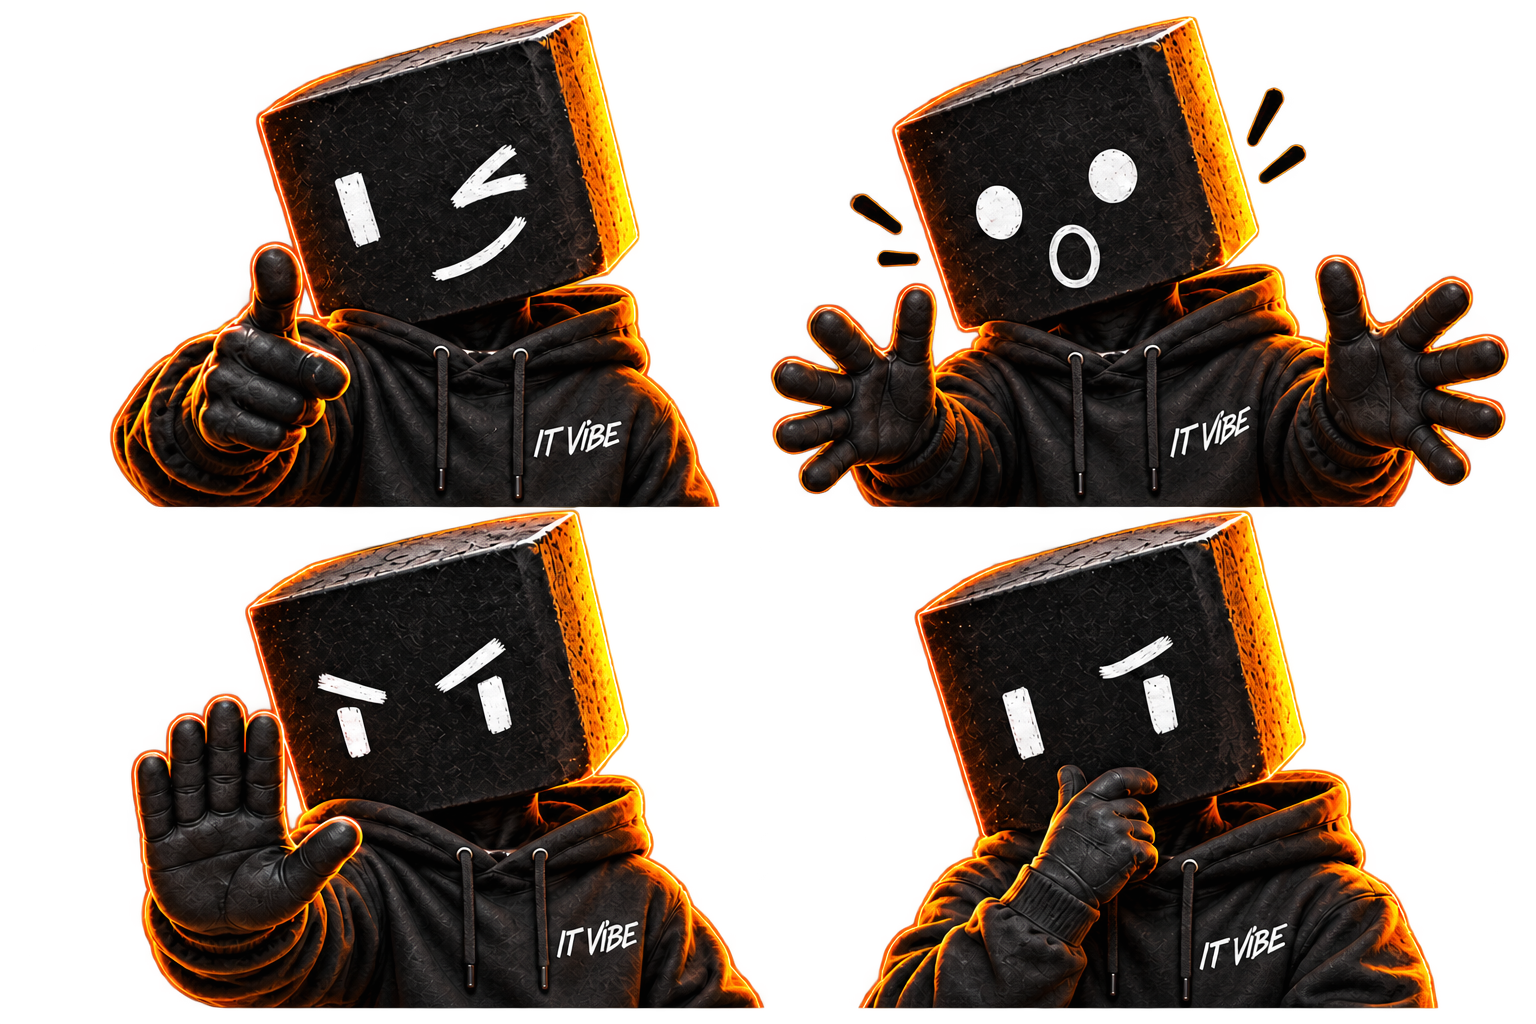
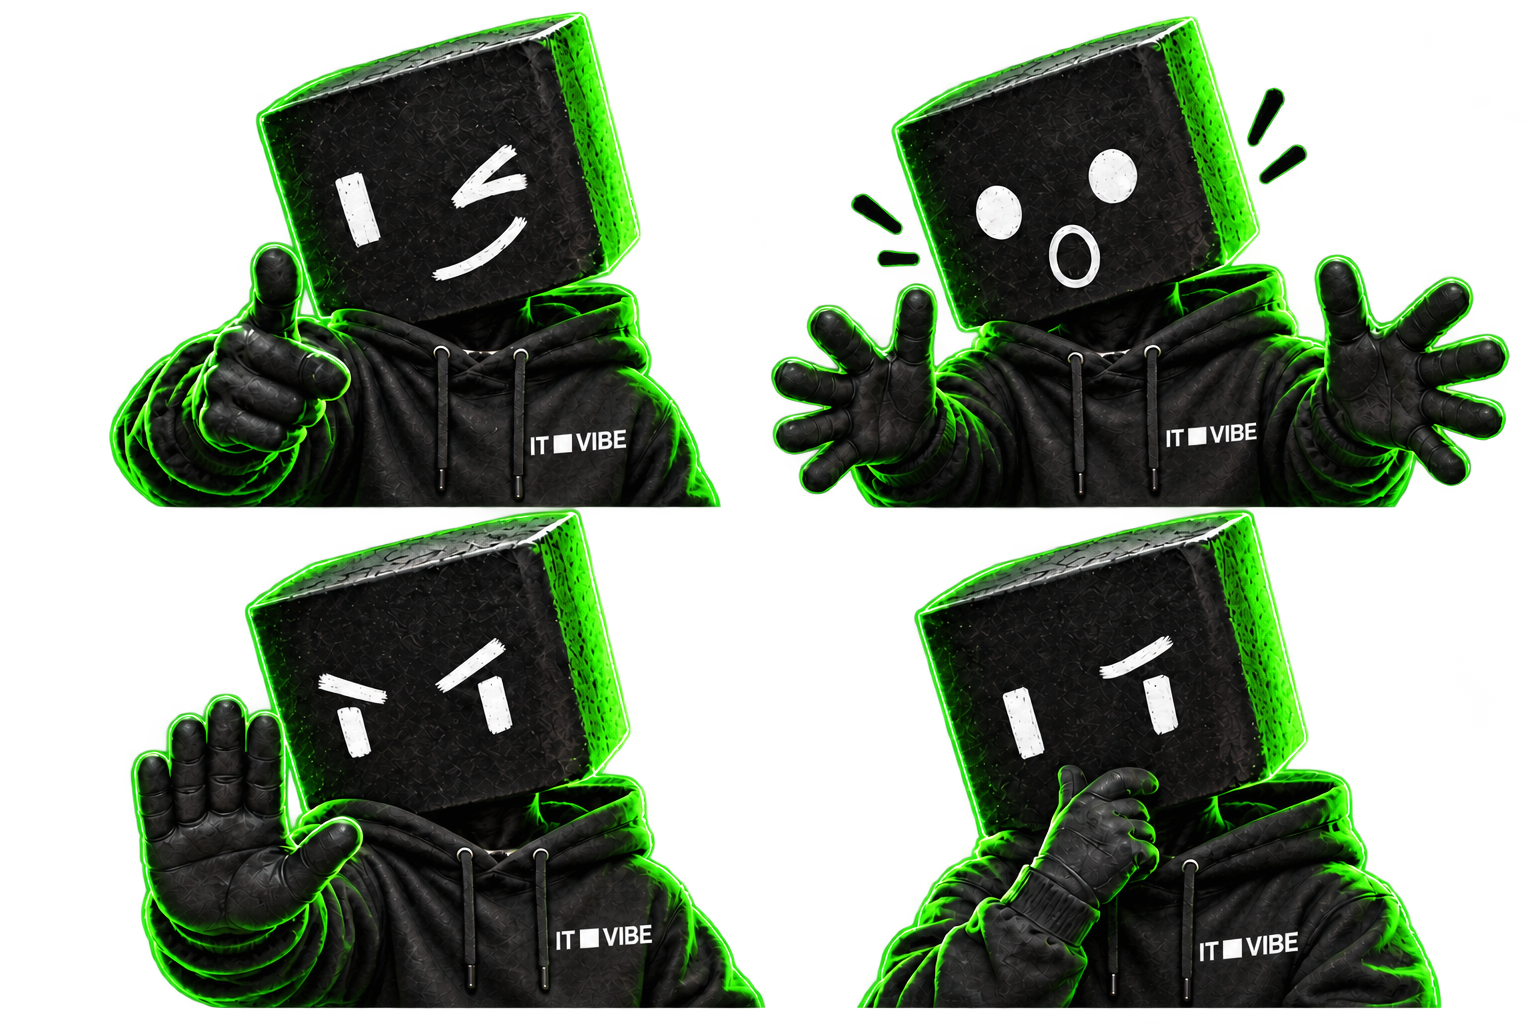
Restyle digest covers in Matrix green

diff --git a/app/digest_cover.py b/app/digest_cover.py
@@ -91,11 +91,11 @@ TOPIC_KEYWORDS = {
 }
 
 PALETTES = {
-    "security": ((255, 44, 68), (10, 184, 230), (11, 12, 18)),
-    "ai": ((145, 82, 255), (0, 220, 255), (10, 8, 24)),
-    "gadgets": ((255, 214, 0), (255, 104, 32), (14, 12, 9)),
-    "business": ((0, 215, 170), (255, 196, 70), (8, 17, 18)),
-    "technology": ((255, 214, 0), (255, 80, 47), (12, 12, 14)),
+    "security": ((124, 255, 0), (0, 255, 102), (2, 10, 4)),
+    "ai": ((57, 255, 20), (0, 200, 83), (0, 10, 4)),
+    "gadgets": ((182, 255, 46), (24, 216, 96), (7, 16, 7)),
+    "business": ((0, 255, 133), (61, 255, 82), (3, 16, 10)),
+    "technology": ((108, 255, 35), (0, 214, 90), (2, 11, 4)),
 }
 
 POSES = ("thumbs", "excited", "alert", "thoughtful")
@@ -248,11 +248,13 @@ def _add_background(canvas: Image.Image, backdrops: list[bytes], topic: str) -> 
     decoded = [image for content in backdrops if (image := _cover_image(content))]
     if decoded:
         hero = ImageOps.fit(decoded[0], canvas.size, method=Image.Resampling.LANCZOS)
+        hero = ImageOps.colorize(hero.convert("L"), black=(0, 4, 2), white=accent)
         hero = hero.filter(ImageFilter.GaussianBlur(radius=14)).convert("RGBA")
         hero.putalpha(150)
         canvas.alpha_composite(hero)
     if len(decoded) > 1:
         panel = ImageOps.fit(decoded[1], (660, 520), method=Image.Resampling.LANCZOS)
+        panel = ImageOps.colorize(panel.convert("L"), black=(0, 5, 2), white=secondary)
         panel = panel.filter(ImageFilter.GaussianBlur(radius=2)).convert("RGBA")
         panel.putalpha(125)
         canvas.alpha_composite(panel, (930, 145))
@@ -346,8 +348,8 @@ def render_digest_cover(
     issue_width = _text_width(draw, issue_text, issue_font)
     badge_left = max(1265, width - issue_width - 84)
     badge = ((badge_left, 28), (width - 16, 8), (width - 42, 151), (badge_left - 31, 173))
-    draw.polygon(badge, fill=(236, 28, 38, 245))
-    draw.text((badge_left + 18, 41), issue_text, font=issue_font, fill="white", stroke_width=1)
+    draw.polygon(badge, fill=(*secondary, 245))
+    draw.text((badge_left + 18, 41), issue_text, font=issue_font, fill=(0, 8, 3, 255), stroke_width=1)
 
     draw.rounded_rectangle((28, 238, 1006, 730), radius=20, fill=(2, 3, 6, 218), outline=(*accent, 95), width=2)
     y = 262
@@ -367,16 +369,16 @@ def render_digest_cover(
         suffix_lines = _wrap(draw, suffix, headline_font, max(240, available))
         if prefix and suffix_lines:
             first = suffix_lines[0]
-            draw.text((line_x, y), first, font=headline_font, fill=(246, 246, 248, 255))
+            draw.text((line_x, y), first, font=headline_font, fill=(220, 255, 224, 255))
             remainder = " ".join(suffix_lines[1:])
             if remainder:
-                draw.text((111, y + 37), remainder, font=headline_font, fill=(246, 246, 248, 255))
+                draw.text((111, y + 37), remainder, font=headline_font, fill=(220, 255, 224, 255))
                 y += 34
         else:
             lines = _wrap(draw, suffix, headline_font, 846)
-            draw.text((111, y), lines[0] if lines else suffix, font=headline_font, fill=(246, 246, 248, 255))
+            draw.text((111, y), lines[0] if lines else suffix, font=headline_font, fill=(220, 255, 224, 255))
             if len(lines) > 1:
-                draw.text((111, y + 37), lines[1], font=headline_font, fill=(246, 246, 248, 255))
+                draw.text((111, y + 37), lines[1], font=headline_font, fill=(220, 255, 224, 255))
                 y += 34
         y += 71
         if y > 685:
@@ -386,10 +388,10 @@ def render_digest_cover(
     draw.rounded_rectangle((28, 749, 1006, 817), radius=14, fill=(0, 0, 0, 218), outline=(*secondary, 110), width=2)
     draw.text((55, 764), labels, font=label_font, fill=(*secondary, 255))
 
-    draw.polygon(((27, 839), (458, 825), (484, 891), (16, 897)), fill=(232, 31, 40, 245))
-    draw.rectangle((54, 850, 87, 883), fill=(255, 255, 255, 255))
-    draw.rectangle((62, 858, 79, 875), fill=(5, 5, 7, 255))
-    draw.text((104, 836), "IT Vibe News", font=brand_font, fill=(255, 255, 255, 255))
+    draw.polygon(((27, 839), (458, 825), (484, 891), (16, 897)), fill=(*accent, 245))
+    draw.rectangle((54, 850, 87, 883), fill=(0, 9, 3, 255))
+    draw.rectangle((62, 858, 79, 875), fill=(*accent, 255))
+    draw.text((104, 836), "IT Vibe News", font=brand_font, fill=(0, 9, 3, 255))
 
     mascot = _mascot(spec.pose)
     shadow = mascot.getchannel("A").filter(ImageFilter.GaussianBlur(radius=20))

diff --git a/tests/test_digest_cover.py b/tests/test_digest_cover.py
@@ -4,6 +4,7 @@ from PIL import Image
 
 from app.digest_cover import (
     COVER_SIZE,
+    PALETTES,
     build_digest_cover_spec,
     digest_headlines,
     render_digest_cover,
@@ -40,6 +41,14 @@ def test_digest_headlines_only_uses_numbered_items() -> None:
     )
 
     assert headlines == ("Первая новость.", "Вторая новость.")
+
+
+def test_digest_palettes_use_matrix_green_accents() -> None:
+    for accent, secondary, _base in PALETTES.values():
+        assert accent[1] > accent[0]
+        assert accent[1] > accent[2]
+        assert secondary[1] > secondary[0]
+        assert secondary[1] > secondary[2]
 
 
 def test_digest_cover_renders_publishable_jpeg() -> None:
